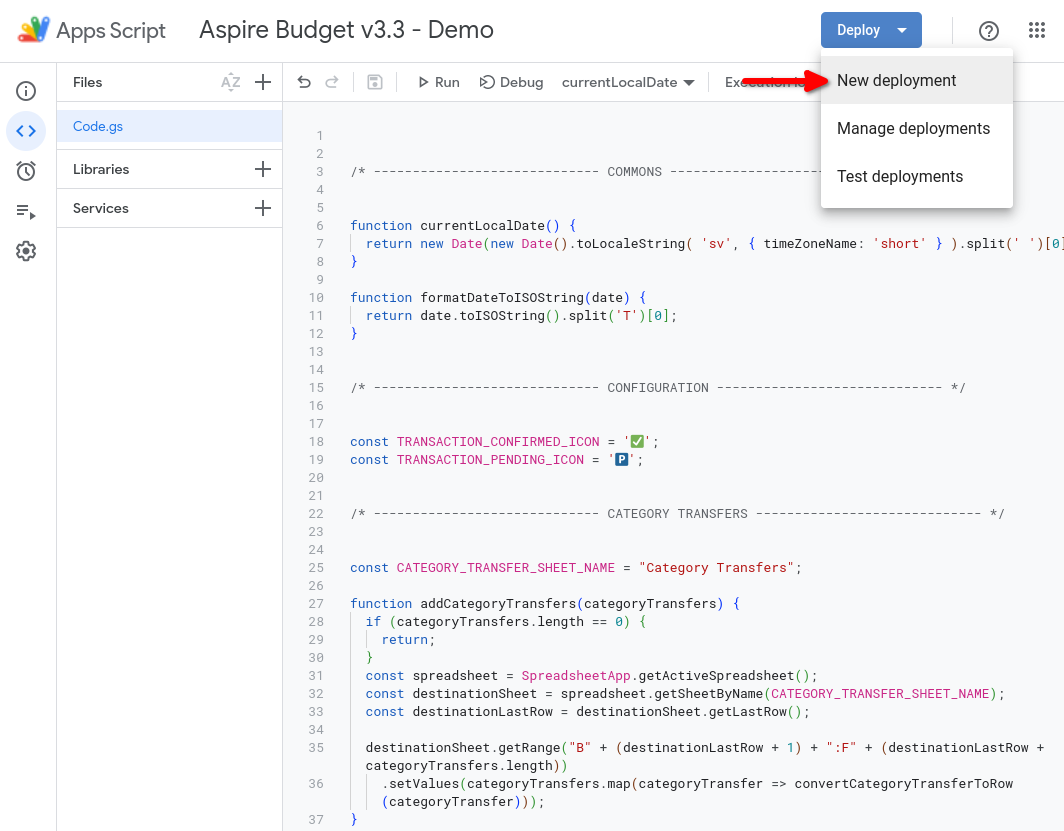
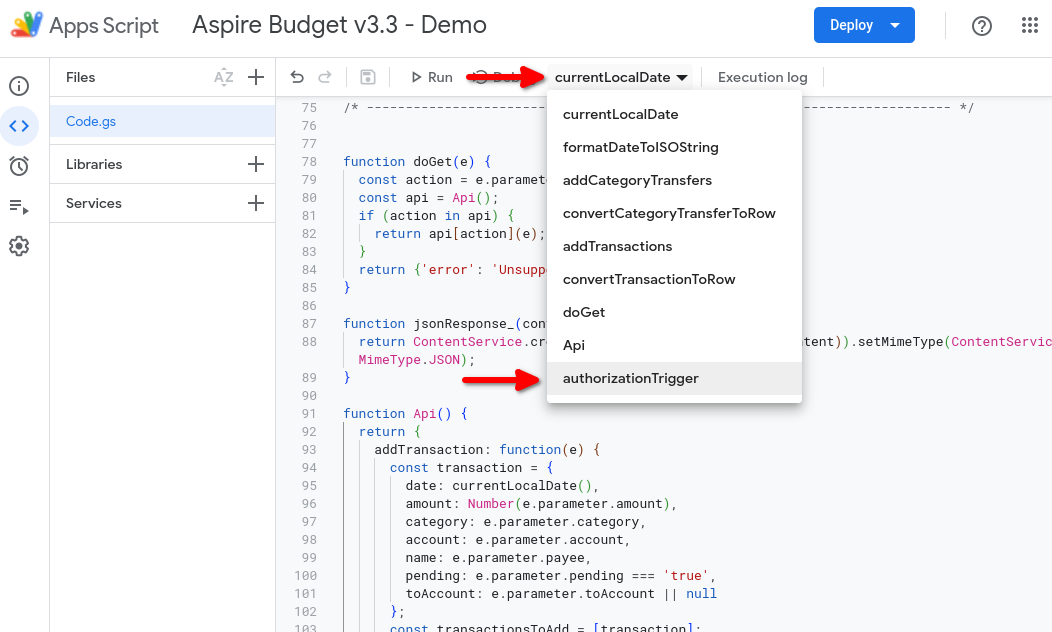
Add authorization steups for ios shortcuts

diff --git a/ios-shortcuts/README.md b/ios-shortcuts/README.md
@@ -24,7 +24,7 @@ To make this work you'll need to create an Apps Scripts project inside your spre
 ![](./screenshots/setup-step-2.2.png)
 
 3. Replace the content of the `Code.gs` file with the content of the script [Code.gs](./Code.gs), and click Save
-4. Create a new `Web app` deployment, execution as yourself, and giving access to `Anyone`:
+4. Trigger the authorization setup by running the function `authorizationTrigger` manually (this function adds one dummy transaction, don't forget to delete it at the end):
 
 ![](./screenshots/setup-step-4.1.png)
 
@@ -32,19 +32,37 @@ To make this work you'll need to create an Apps Scripts project inside your spre
 
 ![](./screenshots/setup-step-4.3.png)
 
-5. Copy the resultant `Web app URL`, as it will be required for setting up the iOS shortcuts
+5. Proceed until the authorization details, read it an click `Allow` if you agree:
 
-![](./screenshots/setup-step-5.png)
+![](./screenshots/setup-step-4.4.png)
 
-6. From your iPhone or iPad, go to the [transactions shortcut](https://www.icloud.com/shortcuts/e1a22f09e5c6444d885c32168bfb0bfe), and tap `Set Up Shortcut`
-7. For the first question, paste the `Web app URL` from the step 6
-8. For the second question, paste the list of your categories, excluding your credit cards, as these shouldn't be used for transactions. One category per line, i.e
+![](./screenshots/setup-step-4.5.png)
+
+![](./screenshots/setup-step-4.6.png)
+
+![](./screenshots/setup-step-4.7.png)
+
+6. Create a new `Web app` deployment, execution as yourself, and giving access to `Anyone`:
+
+![](./screenshots/setup-step-5.1.png)
+
+![](./screenshots/setup-step-5.2.png)
+
+![](./screenshots/setup-step-5.3.png)
+
+7. Copy the resultant `Web app URL`, as it will be required for setting up the iOS shortcuts
+
+![](./screenshots/setup-step-6.png)
+
+8. From your iPhone or iPad, go to the [transactions shortcut](https://www.icloud.com/shortcuts/e1a22f09e5c6444d885c32168bfb0bfe), and tap `Set Up Shortcut`
+9. For the first question, paste the `Web app URL` from the step 6
+10. For the second question, paste the list of your categories, excluding your credit cards, as these shouldn't be used for transactions. One category per line, i.e
     ```
     Category 1
     Category 2
     ```
-9. For the third question, paste the list of your accounts
-10. From your iPhone or iPad, go to the [category transfers shortcut](https://www.icloud.com/shortcuts/2d200b821e6249f89fbdbdc17982b49a), and tap `Set Up Shortcut`
-11. For the first question, paste the `Web app URL` from the step 6
-12. For the second question, paste the list of your categories, including your credit cards, as these can be used for category transfers
-13. Feel free to add these shortcuts as bookmarks in your home screen
+11. For the third question, paste the list of your accounts
+12. From your iPhone or iPad, go to the [category transfers shortcut](https://www.icloud.com/shortcuts/2d200b821e6249f89fbdbdc17982b49a), and tap `Set Up Shortcut`
+13. For the first question, paste the `Web app URL` from the step 6
+14. For the second question, paste the list of your categories, including your credit cards, as these can be used for category transfers
+15. Feel free to add these shortcuts as bookmarks in your home screen
